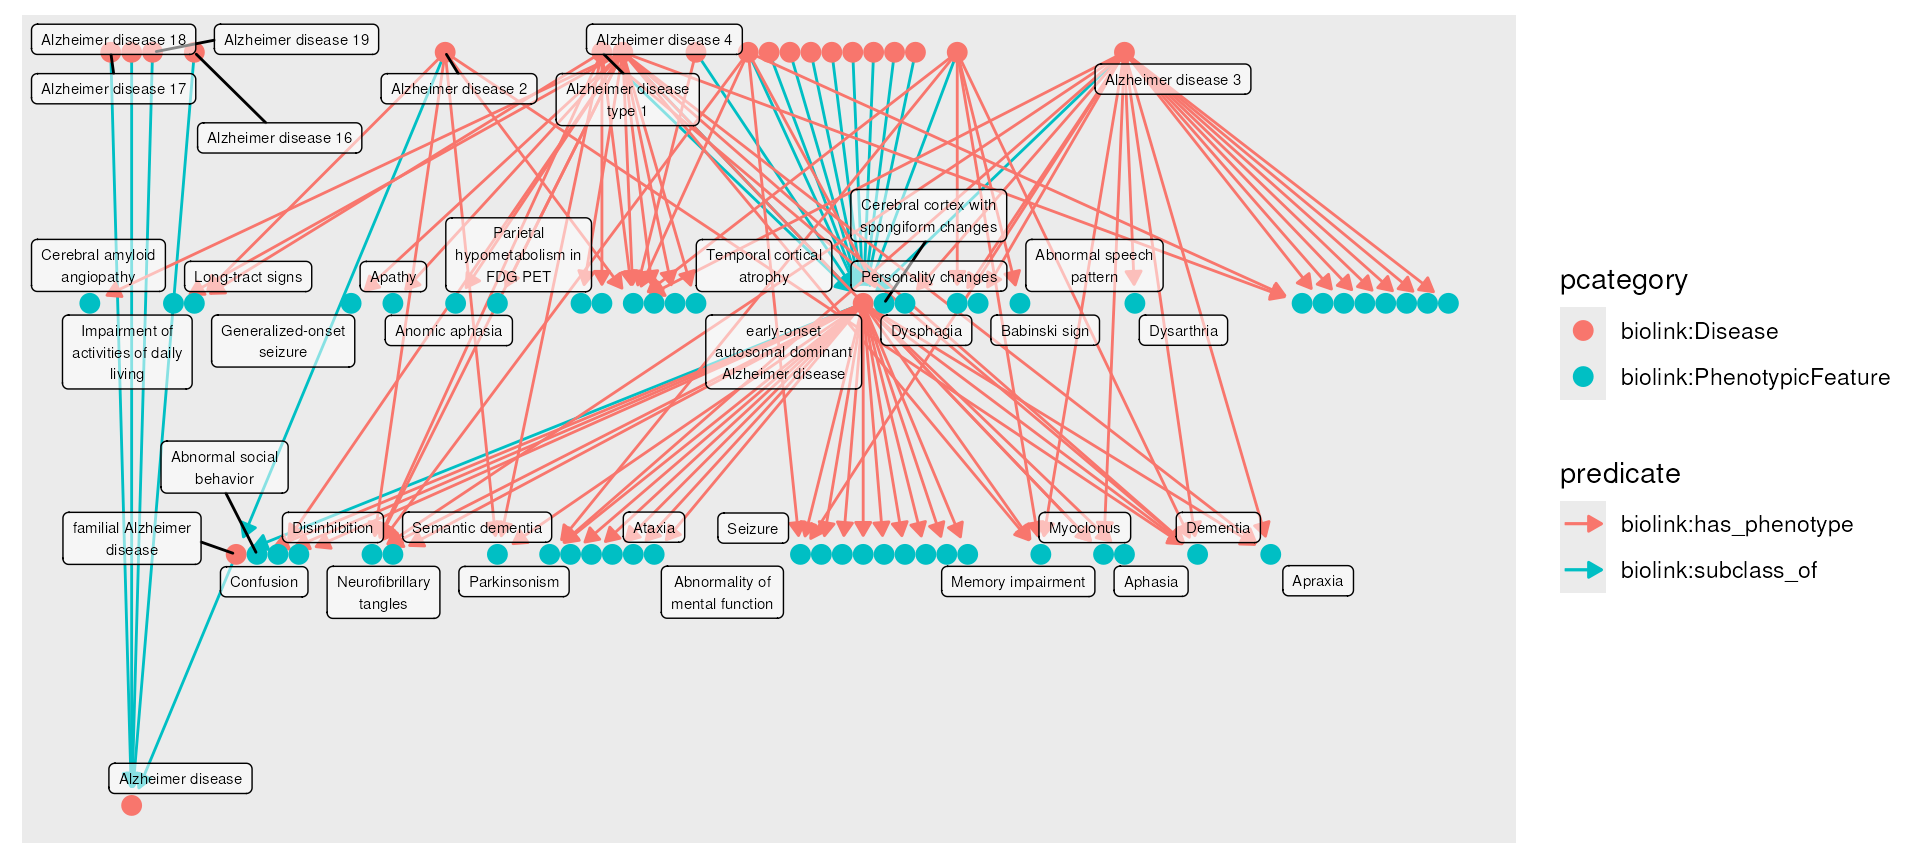
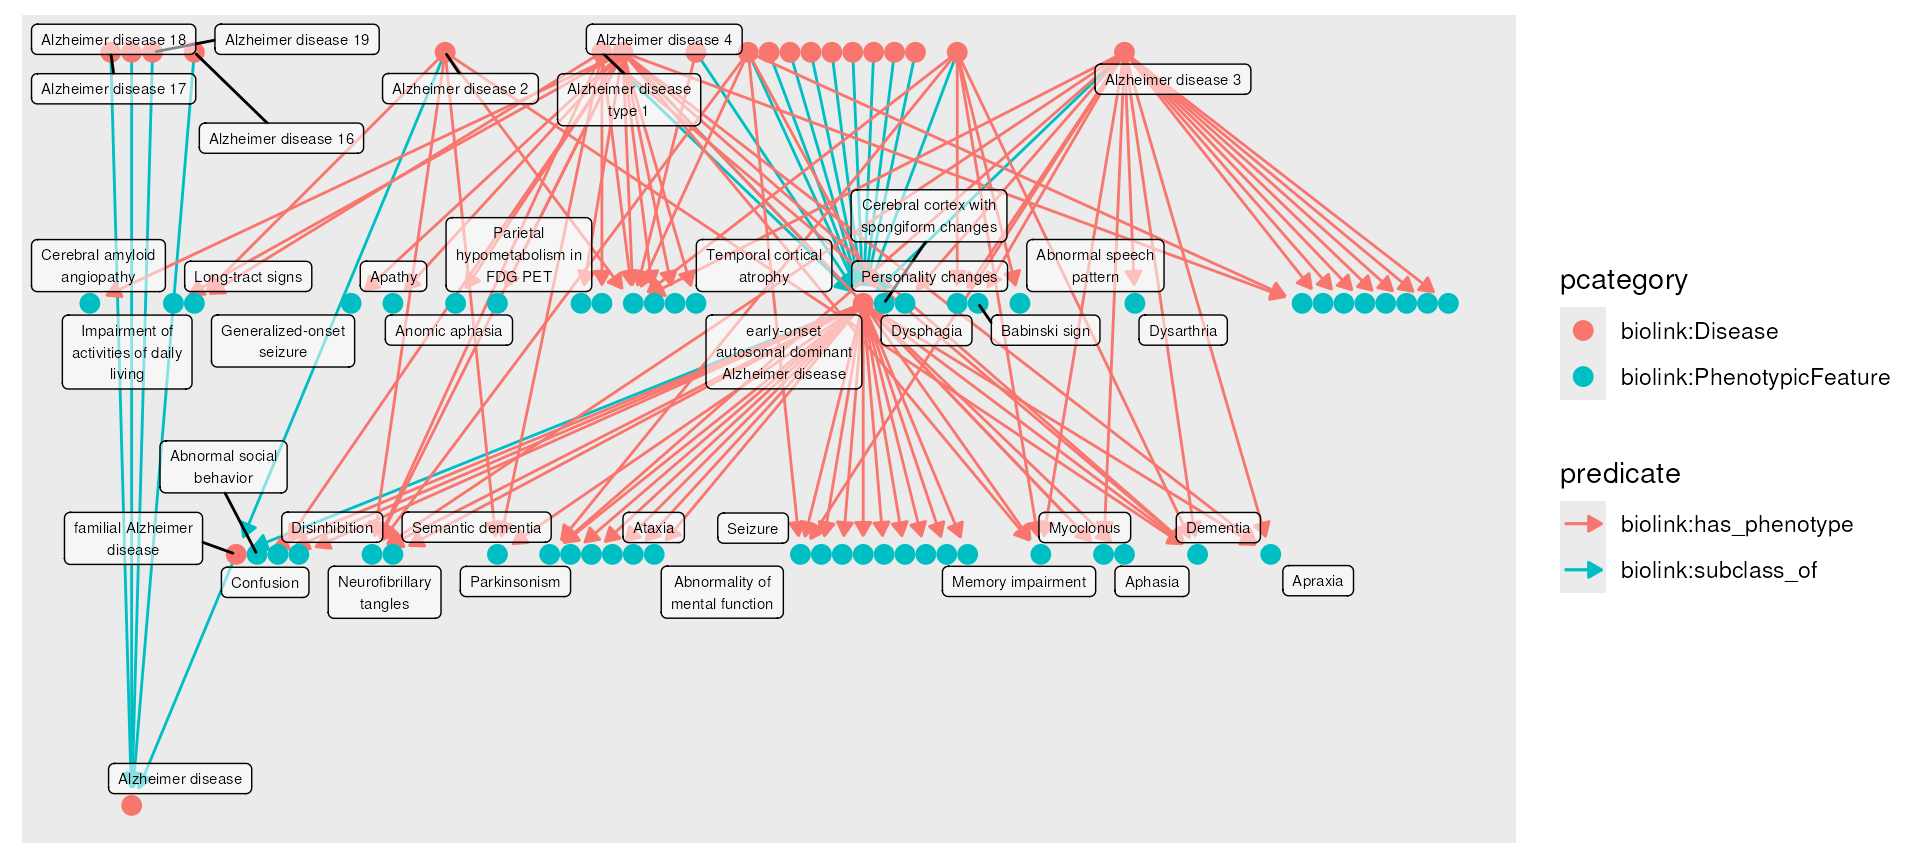
Deploying to gh-pages from @ monarch-initiative/monarchr@3a815161403f68ad2b5fbacbb2d39a8a8b3b3147 🚀

diff --git a/reference/monarch_semsim.html b/reference/monarch_semsim.html
@@ -61,7 +61,7 @@ https://monarchinitiative.org/explore#phenotype-explorer."><!-- mathjax --><scri
   <div class="col-md-9 contents">
     <div class="page-header">
     <h1>Semantic similarity mapping between two graphs</h1>
-    <small class="dont-index">Source: <a href="https://github.com/monarch-initiative/monarchr/blob/fallback-urls/R/monarch_semsim.R" class="external-link"><code>R/monarch_semsim.R</code></a></small>
+    <small class="dont-index">Source: <a href="https://github.com/monarch-initiative/monarchr/blob/main/R/monarch_semsim.R" class="external-link"><code>R/monarch_semsim.R</code></a></small>
     <div class="hidden name"><code>monarch_semsim.Rd</code></div>
     </div>
 
@@ -154,11 +154,11 @@ the best matches from the second graph to the first graph.</p>
 <span class="r-msg co"><span class="r-pr">#&gt;</span> Joining with `by = join_by(id, pcategory, name, description, synonym, category,</span>
 <span class="r-msg co"><span class="r-pr">#&gt;</span> iri, xref, namespace, provided_by)`</span>
 <span class="r-in"><span><span class="fu"><a href="https://rdrr.io/r/base/print.html" class="external-link">print</a></span><span class="op">(</span><span class="va">sim</span><span class="op">)</span></span></span>
-<span class="r-out co"><span class="r-pr">#&gt;</span> <span style="color: #949494;"># A tbl_graph: 137 nodes and 107 edges</span></span>
+<span class="r-out co"><span class="r-pr">#&gt;</span> <span style="color: #949494;"># A tbl_graph: 138 nodes and 107 edges</span></span>
 <span class="r-out co"><span class="r-pr">#&gt;</span> <span style="color: #949494;">#</span></span>
-<span class="r-out co"><span class="r-pr">#&gt;</span> <span style="color: #949494;"># A directed multigraph with 42 components</span></span>
+<span class="r-out co"><span class="r-pr">#&gt;</span> <span style="color: #949494;"># A directed multigraph with 43 components</span></span>
 <span class="r-out co"><span class="r-pr">#&gt;</span> <span style="color: #949494;">#</span></span>
-<span class="r-out co"><span class="r-pr">#&gt;</span> <span style="color: #949494;"># Node Data: 137 × 10 (active)</span></span>
+<span class="r-out co"><span class="r-pr">#&gt;</span> <span style="color: #949494;"># Node Data: 138 × 10 (active)</span></span>
 <span class="r-out co"><span class="r-pr">#&gt;</span>    id         pcategory name  description synonym category iri   xref  namespace</span>
 <span class="r-out co"><span class="r-pr">#&gt;</span>    <span style="color: #949494; font-style: italic;">&lt;chr&gt;</span>      <span style="color: #949494; font-style: italic;">&lt;chr&gt;</span>     <span style="color: #949494; font-style: italic;">&lt;chr&gt;</span> <span style="color: #949494; font-style: italic;">&lt;chr&gt;</span>       <span style="color: #949494; font-style: italic;">&lt;named&gt;</span> <span style="color: #949494; font-style: italic;">&lt;list&gt;</span>   <span style="color: #949494; font-style: italic;">&lt;chr&gt;</span> <span style="color: #949494; font-style: italic;">&lt;nam&gt;</span> <span style="color: #949494; font-style: italic;">&lt;chr&gt;</span>    </span>
 <span class="r-out co"><span class="r-pr">#&gt;</span> <span style="color: #BCBCBC;"> 1</span> MONDO:000… biolink:… Marf… A disorder… <span style="color: #949494;">&lt;chr&gt;</span>   <span style="color: #949494;">&lt;chr&gt;</span>    http… <span style="color: #949494;">&lt;chr&gt;</span> MONDO    </span>
@@ -171,15 +171,15 @@ the best matches from the second graph to the first graph.</p>
 <span class="r-out co"><span class="r-pr">#&gt;</span> <span style="color: #BCBCBC;"> 8</span> HP:0012432 biolink:… Chro… <span style="color: #BB0000;">NA</span>          <span style="color: #949494;">&lt;lgl&gt;</span>   <span style="color: #949494;">&lt;chr&gt;</span>    http… <span style="color: #949494;">&lt;lgl&gt;</span> HP       </span>
 <span class="r-out co"><span class="r-pr">#&gt;</span> <span style="color: #BCBCBC;"> 9</span> HP:0000275 biolink:… Narr… <span style="color: #BB0000;">NA</span>          <span style="color: #949494;">&lt;chr&gt;</span>   <span style="color: #949494;">&lt;chr&gt;</span>    http… <span style="color: #949494;">&lt;lgl&gt;</span> HP       </span>
 <span class="r-out co"><span class="r-pr">#&gt;</span> <span style="color: #BCBCBC;">10</span> HP:0000505 biolink:… Visu… <span style="color: #BB0000;">NA</span>          <span style="color: #949494;">&lt;lgl&gt;</span>   <span style="color: #949494;">&lt;chr&gt;</span>    http… <span style="color: #949494;">&lt;lgl&gt;</span> HP       </span>
-<span class="r-out co"><span class="r-pr">#&gt;</span> <span style="color: #949494;"># ℹ 127 more rows</span></span>
+<span class="r-out co"><span class="r-pr">#&gt;</span> <span style="color: #949494;"># ℹ 128 more rows</span></span>
 <span class="r-out co"><span class="r-pr">#&gt;</span> <span style="color: #949494;"># ℹ 1 more variable: provided_by &lt;named list&gt;</span></span>
 <span class="r-out co"><span class="r-pr">#&gt;</span> <span style="color: #949494;">#</span></span>
 <span class="r-out co"><span class="r-pr">#&gt;</span> <span style="color: #949494;"># Edge Data: 107 × 8</span></span>
 <span class="r-out co"><span class="r-pr">#&gt;</span>    from    to subject    predicate             object   metric score ancestor_id</span>
 <span class="r-out co"><span class="r-pr">#&gt;</span>   <span style="color: #949494; font-style: italic;">&lt;int&gt;</span> <span style="color: #949494; font-style: italic;">&lt;int&gt;</span> <span style="color: #949494; font-style: italic;">&lt;chr&gt;</span>      <span style="color: #949494; font-style: italic;">&lt;chr&gt;</span>                 <span style="color: #949494; font-style: italic;">&lt;chr&gt;</span>    <span style="color: #949494; font-style: italic;">&lt;chr&gt;</span>  <span style="color: #949494; font-style: italic;">&lt;dbl&gt;</span> <span style="color: #949494; font-style: italic;">&lt;chr&gt;</span>      </span>
-<span class="r-out co"><span class="r-pr">#&gt;</span> <span style="color: #BCBCBC;">1</span>   107   132 HP:0000006 computed:best_matches HP:0006… ances…  4.19 HP:0000001 </span>
+<span class="r-out co"><span class="r-pr">#&gt;</span> <span style="color: #BCBCBC;">1</span>   107   109 HP:0000006 computed:best_matches HP:0001… ances…  4.19 HP:0000001 </span>
 <span class="r-out co"><span class="r-pr">#&gt;</span> <span style="color: #BCBCBC;">2</span>    33    33 HP:0000023 computed:best_matches HP:0000… ances… 18.4  HP:0000023 </span>
-<span class="r-out co"><span class="r-pr">#&gt;</span> <span style="color: #BCBCBC;">3</span>    86   118 HP:0000098 computed:best_matches HP:0000… ances…  6.06 UPHENO:000…</span>
+<span class="r-out co"><span class="r-pr">#&gt;</span> <span style="color: #BCBCBC;">3</span>    86   119 HP:0000098 computed:best_matches HP:0000… ances…  6.06 UPHENO:000…</span>
 <span class="r-out co"><span class="r-pr">#&gt;</span> <span style="color: #949494;"># ℹ 104 more rows</span></span>
 <span class="r-in"><span></span></span>
 <span class="r-in"><span><span class="co"># also inclue the unmatched targets</span></span></span>
@@ -212,7 +212,7 @@ the best matches from the second graph to the first graph.</p>
 <span class="r-out co"><span class="r-pr">#&gt;</span> <span style="color: #949494;"># Edge Data: 107 × 8</span></span>
 <span class="r-out co"><span class="r-pr">#&gt;</span>    from    to subject    predicate             object   metric score ancestor_id</span>
 <span class="r-out co"><span class="r-pr">#&gt;</span>   <span style="color: #949494; font-style: italic;">&lt;int&gt;</span> <span style="color: #949494; font-style: italic;">&lt;int&gt;</span> <span style="color: #949494; font-style: italic;">&lt;chr&gt;</span>      <span style="color: #949494; font-style: italic;">&lt;chr&gt;</span>                 <span style="color: #949494; font-style: italic;">&lt;chr&gt;</span>    <span style="color: #949494; font-style: italic;">&lt;chr&gt;</span>  <span style="color: #949494; font-style: italic;">&lt;dbl&gt;</span> <span style="color: #949494; font-style: italic;">&lt;chr&gt;</span>      </span>
-<span class="r-out co"><span class="r-pr">#&gt;</span> <span style="color: #BCBCBC;">1</span>   107   109 HP:0000006 computed:best_matches HP:0000… ances…  4.19 HP:0000001 </span>
+<span class="r-out co"><span class="r-pr">#&gt;</span> <span style="color: #BCBCBC;">1</span>   107   113 HP:0000006 computed:best_matches HP:0001… ances…  4.19 HP:0000001 </span>
 <span class="r-out co"><span class="r-pr">#&gt;</span> <span style="color: #BCBCBC;">2</span>    33    33 HP:0000023 computed:best_matches HP:0000… ances… 18.4  HP:0000023 </span>
 <span class="r-out co"><span class="r-pr">#&gt;</span> <span style="color: #BCBCBC;">3</span>    86   126 HP:0000098 computed:best_matches HP:0000… ances…  6.06 UPHENO:000…</span>
 <span class="r-out co"><span class="r-pr">#&gt;</span> <span style="color: #949494;"># ℹ 104 more rows</span></span>
@@ -247,7 +247,7 @@ the best matches from the second graph to the first graph.</p>
 <span class="r-out co"><span class="r-pr">#&gt;</span> <span style="color: #949494;"># Edge Data: 174 × 8</span></span>
 <span class="r-out co"><span class="r-pr">#&gt;</span>    from    to subject    predicate             object   metric score ancestor_id</span>
 <span class="r-out co"><span class="r-pr">#&gt;</span>   <span style="color: #949494; font-style: italic;">&lt;int&gt;</span> <span style="color: #949494; font-style: italic;">&lt;int&gt;</span> <span style="color: #949494; font-style: italic;">&lt;chr&gt;</span>      <span style="color: #949494; font-style: italic;">&lt;chr&gt;</span>                 <span style="color: #949494; font-style: italic;">&lt;chr&gt;</span>    <span style="color: #949494; font-style: italic;">&lt;chr&gt;</span>  <span style="color: #949494; font-style: italic;">&lt;dbl&gt;</span> <span style="color: #949494; font-style: italic;">&lt;chr&gt;</span>      </span>
-<span class="r-out co"><span class="r-pr">#&gt;</span> <span style="color: #BCBCBC;">1</span>   107    20 HP:0000006 computed:best_matches HP:0001… ances…  4.19 HP:0000001 </span>
+<span class="r-out co"><span class="r-pr">#&gt;</span> <span style="color: #BCBCBC;">1</span>   107   155 HP:0000006 computed:best_matches HP:0025… ances…  4.19 HP:0000001 </span>
 <span class="r-out co"><span class="r-pr">#&gt;</span> <span style="color: #BCBCBC;">2</span>    33    33 HP:0000023 computed:best_matches HP:0000… ances… 18.4  HP:0000023 </span>
 <span class="r-out co"><span class="r-pr">#&gt;</span> <span style="color: #BCBCBC;">3</span>    86   126 HP:0000098 computed:best_matches HP:0000… ances…  6.06 UPHENO:000…</span>
 <span class="r-out co"><span class="r-pr">#&gt;</span> <span style="color: #949494;"># ℹ 171 more rows</span></span>

diff --git a/articles/monarchr.html b/articles/monarchr.html
@@ -93,7 +93,7 @@ O’Neil</h4>
 <i>Oct-22-2024</i>
 </h4>
       
-      <small class="dont-index">Source: <a href="https://github.com/monarch-initiative/monarchr/blob/fallback-urls/vignettes/monarchr.Rmd" class="external-link"><code>vignettes/monarchr.Rmd</code></a></small>
+      <small class="dont-index">Source: <a href="https://github.com/monarch-initiative/monarchr/blob/main/vignettes/monarchr.Rmd" class="external-link"><code>vignettes/monarchr.Rmd</code></a></small>
       <div class="hidden name"><code>monarchr.Rmd</code></div>
 
     </div>
@@ -6437,13 +6437,13 @@ NA
 </tr>
 <tr>
 <td style="text-align:left;">
-“HP:0000505”
+“HP:0000545”
 </td>
 <td style="text-align:left;">
 “biolink:PhenotypicFeature”
 </td>
 <td style="text-align:left;">
-“Visual impairment”
+“Myopia”
 </td>
 <td style="text-align:left;min-width: 300px; ">
 NA
@@ -6457,7 +6457,7 @@ c(“biolink:BiologicalEntity”, “biolink:DiseaseOrPhenotypicFeature”,
 “biolink:ThingWithTaxon”)
 </td>
 <td style="text-align:left;">
-“<a href="http://purl.obolibrary.org/obo/HP_0000505" class="external-link uri">http://purl.obolibrary.org/obo/HP_0000505</a>”
+“<a href="http://purl.obolibrary.org/obo/HP_0000545" class="external-link uri">http://purl.obolibrary.org/obo/HP_0000545</a>”
 </td>
 <td style="text-align:left;">
 NA
@@ -6727,7 +6727,7 @@ ancestor_id
 “computed:best_matches”
 </td>
 <td style="text-align:left;">
-“HP:0000505”
+“HP:0000545”
 </td>
 <td style="text-align:left;">
 “ancestor_information_content”

diff --git a/reference/monarch_engine.html b/reference/monarch_engine.html
@@ -60,7 +60,7 @@ graph objects."><!-- mathjax --><script src="https://cdnjs.cloudflare.com/ajax/l
   <div class="col-md-9 contents">
     <div class="page-header">
     <h1>Create a knowledge graph engine object backed by the public Monarch Neo4j instance</h1>
-    <small class="dont-index">Source: <a href="https://github.com/monarch-initiative/monarchr/blob/fallback-urls/R/monarch_engine.R" class="external-link"><code>R/monarch_engine.R</code></a></small>
+    <small class="dont-index">Source: <a href="https://github.com/monarch-initiative/monarchr/blob/main/R/monarch_engine.R" class="external-link"><code>R/monarch_engine.R</code></a></small>
     <div class="hidden name"><code>monarch_engine.Rd</code></div>
     </div>
 

diff --git a/reference/summarize_neighborhood.html b/reference/summarize_neighborhood.html
@@ -63,7 +63,7 @@ graph's collective neighborhood in the larger KG."><!-- mathjax --><script src="
   <div class="col-md-9 contents">
     <div class="page-header">
     <h1>Summarize neighborhood</h1>
-    <small class="dont-index">Source: <a href="https://github.com/monarch-initiative/monarchr/blob/fallback-urls/R/summarize_neighborhood.R" class="external-link"><code>R/summarize_neighborhood.R</code></a></small>
+    <small class="dont-index">Source: <a href="https://github.com/monarch-initiative/monarchr/blob/main/R/summarize_neighborhood.R" class="external-link"><code>R/summarize_neighborhood.R</code></a></small>
     <div class="hidden name"><code>summarize_neighborhood.Rd</code></div>
     </div>
 

diff --git a/reference/monarch_search.html b/reference/monarch_search.html
@@ -61,7 +61,7 @@ It returns nodes (no edges) from the Monarch KG, fetched via an instance of mona
   <div class="col-md-9 contents">
     <div class="page-header">
     <h1>Search for KG nodes using the Monarch Initiative search API</h1>
-    <small class="dont-index">Source: <a href="https://github.com/monarch-initiative/monarchr/blob/fallback-urls/R/monarch_search.R" class="external-link"><code>R/monarch_search.R</code></a></small>
+    <small class="dont-index">Source: <a href="https://github.com/monarch-initiative/monarchr/blob/main/R/monarch_search.R" class="external-link"><code>R/monarch_search.R</code></a></small>
     <div class="hidden name"><code>monarch_search.Rd</code></div>
     </div>
 

diff --git a/reference/stitch_vectors.html b/reference/stitch_vectors.html
@@ -62,7 +62,7 @@ scalar strings"><!-- mathjax --><script src="https://cdnjs.cloudflare.com/ajax/l
   <div class="col-md-9 contents">
     <div class="page-header">
     <h1>Stitch Vectors</h1>
-    <small class="dont-index">Source: <a href="https://github.com/monarch-initiative/monarchr/blob/fallback-urls/R/cypher_query.neo4j_engine.R" class="external-link"><code>R/cypher_query.neo4j_engine.R</code></a></small>
+    <small class="dont-index">Source: <a href="https://github.com/monarch-initiative/monarchr/blob/main/R/cypher_query.neo4j_engine.R" class="external-link"><code>R/cypher_query.neo4j_engine.R</code></a></small>
     <div class="hidden name"><code>stitch_vectors.Rd</code></div>
     </div>
 

diff --git a/reference/normalize_categories.html b/reference/normalize_categories.html
@@ -60,7 +60,7 @@ It selects the most preferred category from each vector, or the first category i
   <div class="col-md-9 contents">
     <div class="page-header">
     <h1>Normalize Categories</h1>
-    <small class="dont-index">Source: <a href="https://github.com/monarch-initiative/monarchr/blob/fallback-urls/R/normalize_categories.R" class="external-link"><code>R/normalize_categories.R</code></a></small>
+    <small class="dont-index">Source: <a href="https://github.com/monarch-initiative/monarchr/blob/main/R/normalize_categories.R" class="external-link"><code>R/normalize_categories.R</code></a></small>
     <div class="hidden name"><code>normalize_categories.Rd</code></div>
     </div>
 

diff --git a/reference/neo4j_engine.html b/reference/neo4j_engine.html
@@ -61,7 +61,7 @@ graph objects.'><!-- mathjax --><script src="https://cdnjs.cloudflare.com/ajax/l
   <div class="col-md-9 contents">
     <div class="page-header">
     <h1>Create a knowledge graph engine object for a neo4j database</h1>
-    <small class="dont-index">Source: <a href="https://github.com/monarch-initiative/monarchr/blob/fallback-urls/R/neo4j_engine.R" class="external-link"><code>R/neo4j_engine.R</code></a></small>
+    <small class="dont-index">Source: <a href="https://github.com/monarch-initiative/monarchr/blob/main/R/neo4j_engine.R" class="external-link"><code>R/neo4j_engine.R</code></a></small>
     <div class="hidden name"><code>neo4j_engine.Rd</code></div>
     </div>
 

diff --git a/reference/fetch_nodes.html b/reference/fetch_nodes.html
@@ -63,7 +63,7 @@ set of condition expressions are supported, see details."><!-- mathjax --><scrip
   <div class="col-md-9 contents">
     <div class="page-header">
     <h1>Fetch nodes from a graph using a set of IDs or conditions</h1>
-    <small class="dont-index">Source: <a href="https://github.com/monarch-initiative/monarchr/blob/fallback-urls/R/fetch_nodes.R" class="external-link"><code>R/fetch_nodes.R</code></a></small>
+    <small class="dont-index">Source: <a href="https://github.com/monarch-initiative/monarchr/blob/main/R/fetch_nodes.R" class="external-link"><code>R/fetch_nodes.R</code></a></small>
     <div class="hidden name"><code>fetch_nodes.Rd</code></div>
     </div>
 

diff --git a/reference/grapes-in_list-grapes.html b/reference/grapes-in_list-grapes.html
@@ -60,7 +60,7 @@ that this is different than %in% which does not work with list columns in a natu
   <div class="col-md-9 contents">
     <div class="page-header">
     <h1>Check if an element is contained in list sub-elements</h1>
-    <small class="dont-index">Source: <a href="https://github.com/monarch-initiative/monarchr/blob/fallback-urls/R/in_list.R" class="external-link"><code>R/in_list.R</code></a></small>
+    <small class="dont-index">Source: <a href="https://github.com/monarch-initiative/monarchr/blob/main/R/in_list.R" class="external-link"><code>R/in_list.R</code></a></small>
     <div class="hidden name"><code>grapes-in_list-grapes.Rd</code></div>
     </div>
 

diff --git a/reference/expand.html b/reference/expand.html
@@ -62,7 +62,7 @@ engine is used; if the first parameter is a query graph, the most recent engine 
   <div class="col-md-9 contents">
     <div class="page-header">
     <h1>Fetch additional knowledge graph edges connected to a query graph</h1>
-    <small class="dont-index">Source: <a href="https://github.com/monarch-initiative/monarchr/blob/fallback-urls/R/expand.R" class="external-link"><code>R/expand.R</code></a></small>
+    <small class="dont-index">Source: <a href="https://github.com/monarch-initiative/monarchr/blob/main/R/expand.R" class="external-link"><code>R/expand.R</code></a></small>
     <div class="hidden name"><code>expand.Rd</code></div>
     </div>
 

diff --git a/reference/load_kgx.html b/reference/load_kgx.html
@@ -61,7 +61,7 @@ loads it as a graph."><!-- mathjax --><script src="https://cdnjs.cloudflare.com/
   <div class="col-md-9 contents">
     <div class="page-header">
     <h1>Load a graph from a KGX-formatted .tar.gz file.</h1>
-    <small class="dont-index">Source: <a href="https://github.com/monarch-initiative/monarchr/blob/fallback-urls/R/load_kgx.R" class="external-link"><code>R/load_kgx.R</code></a></small>
+    <small class="dont-index">Source: <a href="https://github.com/monarch-initiative/monarchr/blob/main/R/load_kgx.R" class="external-link"><code>R/load_kgx.R</code></a></small>
     <div class="hidden name"><code>load_kgx.Rd</code></div>
     </div>
 
